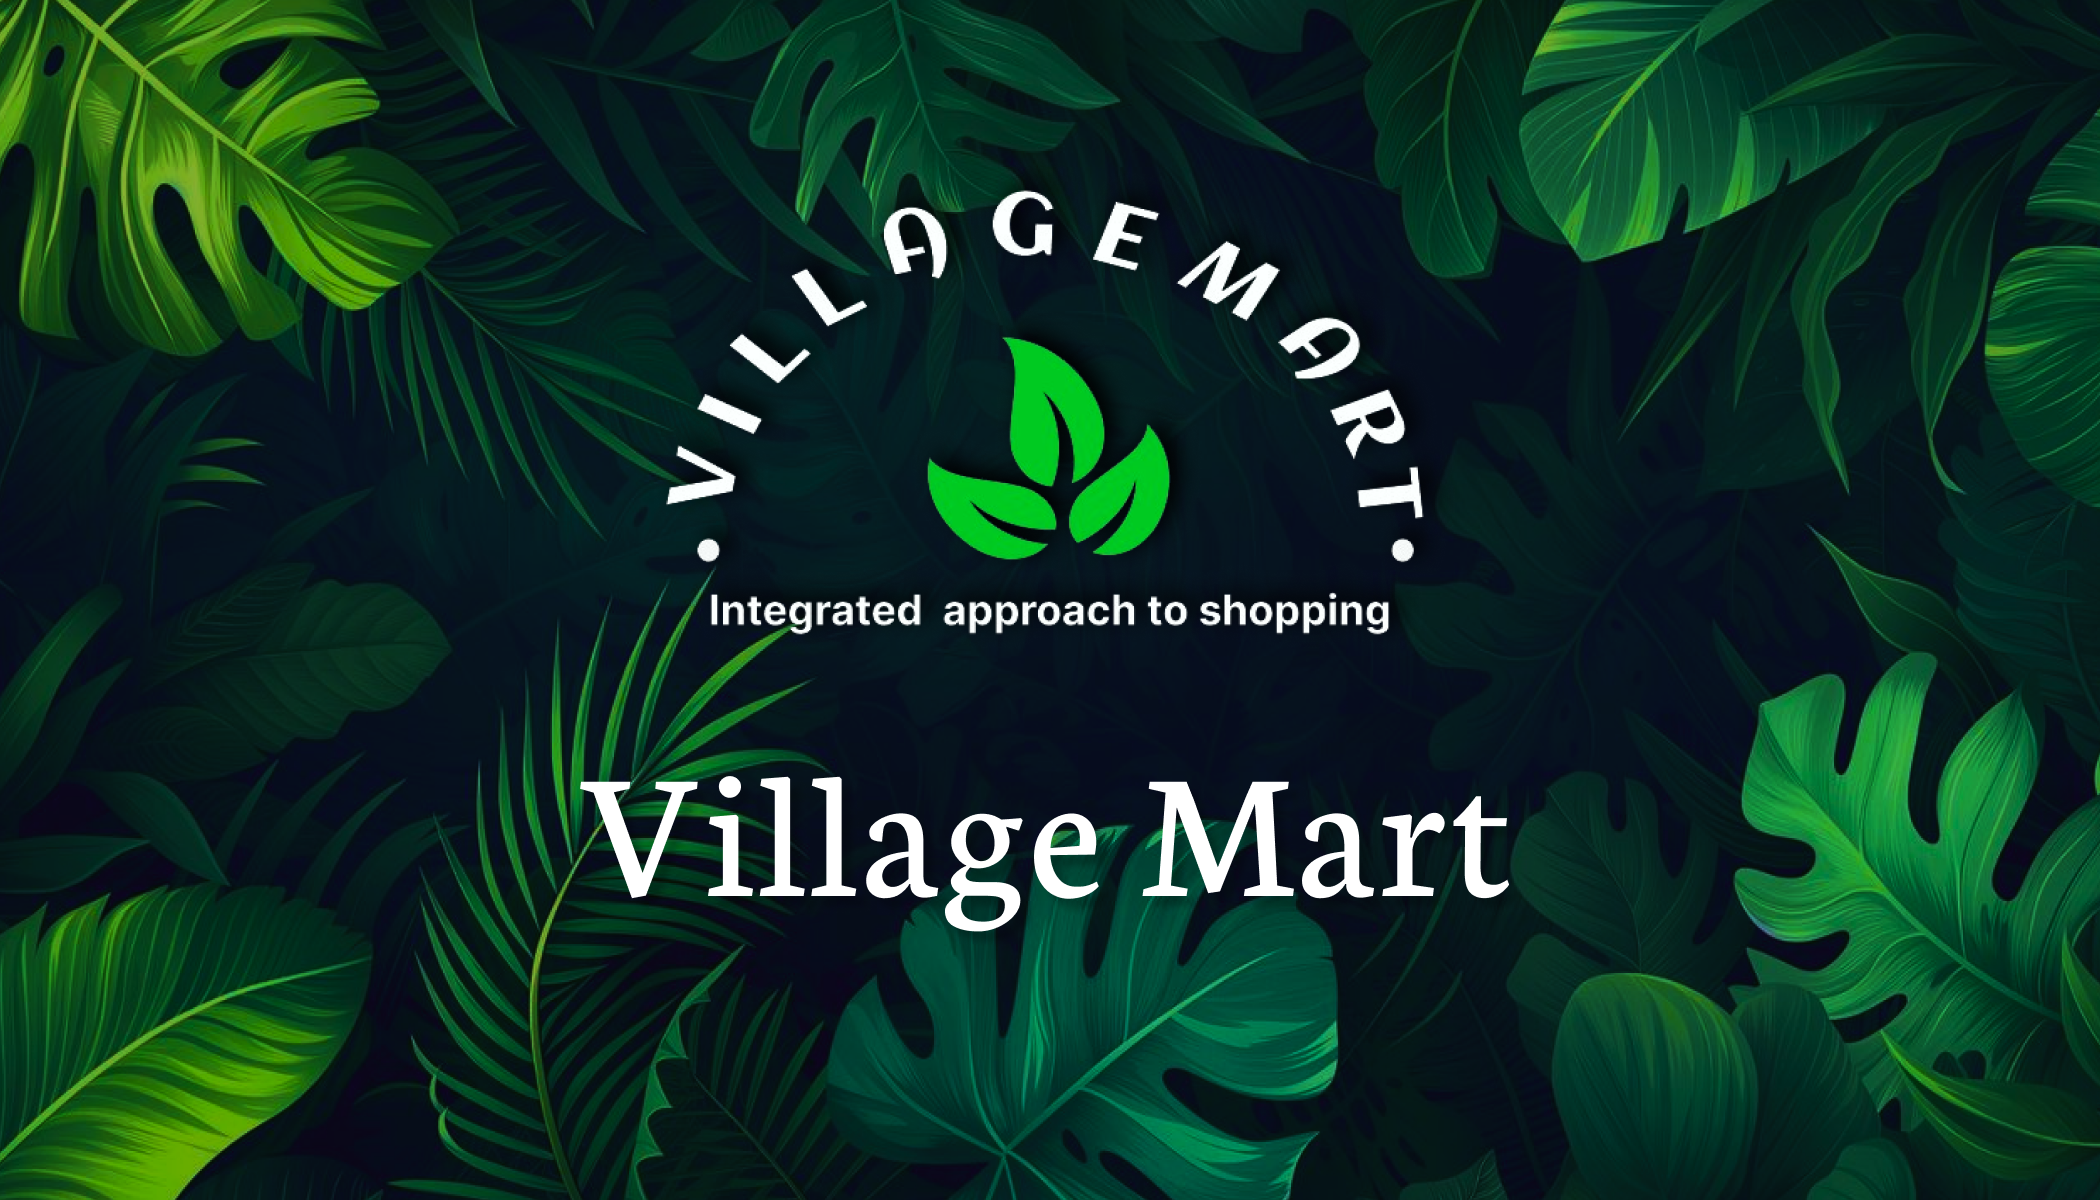
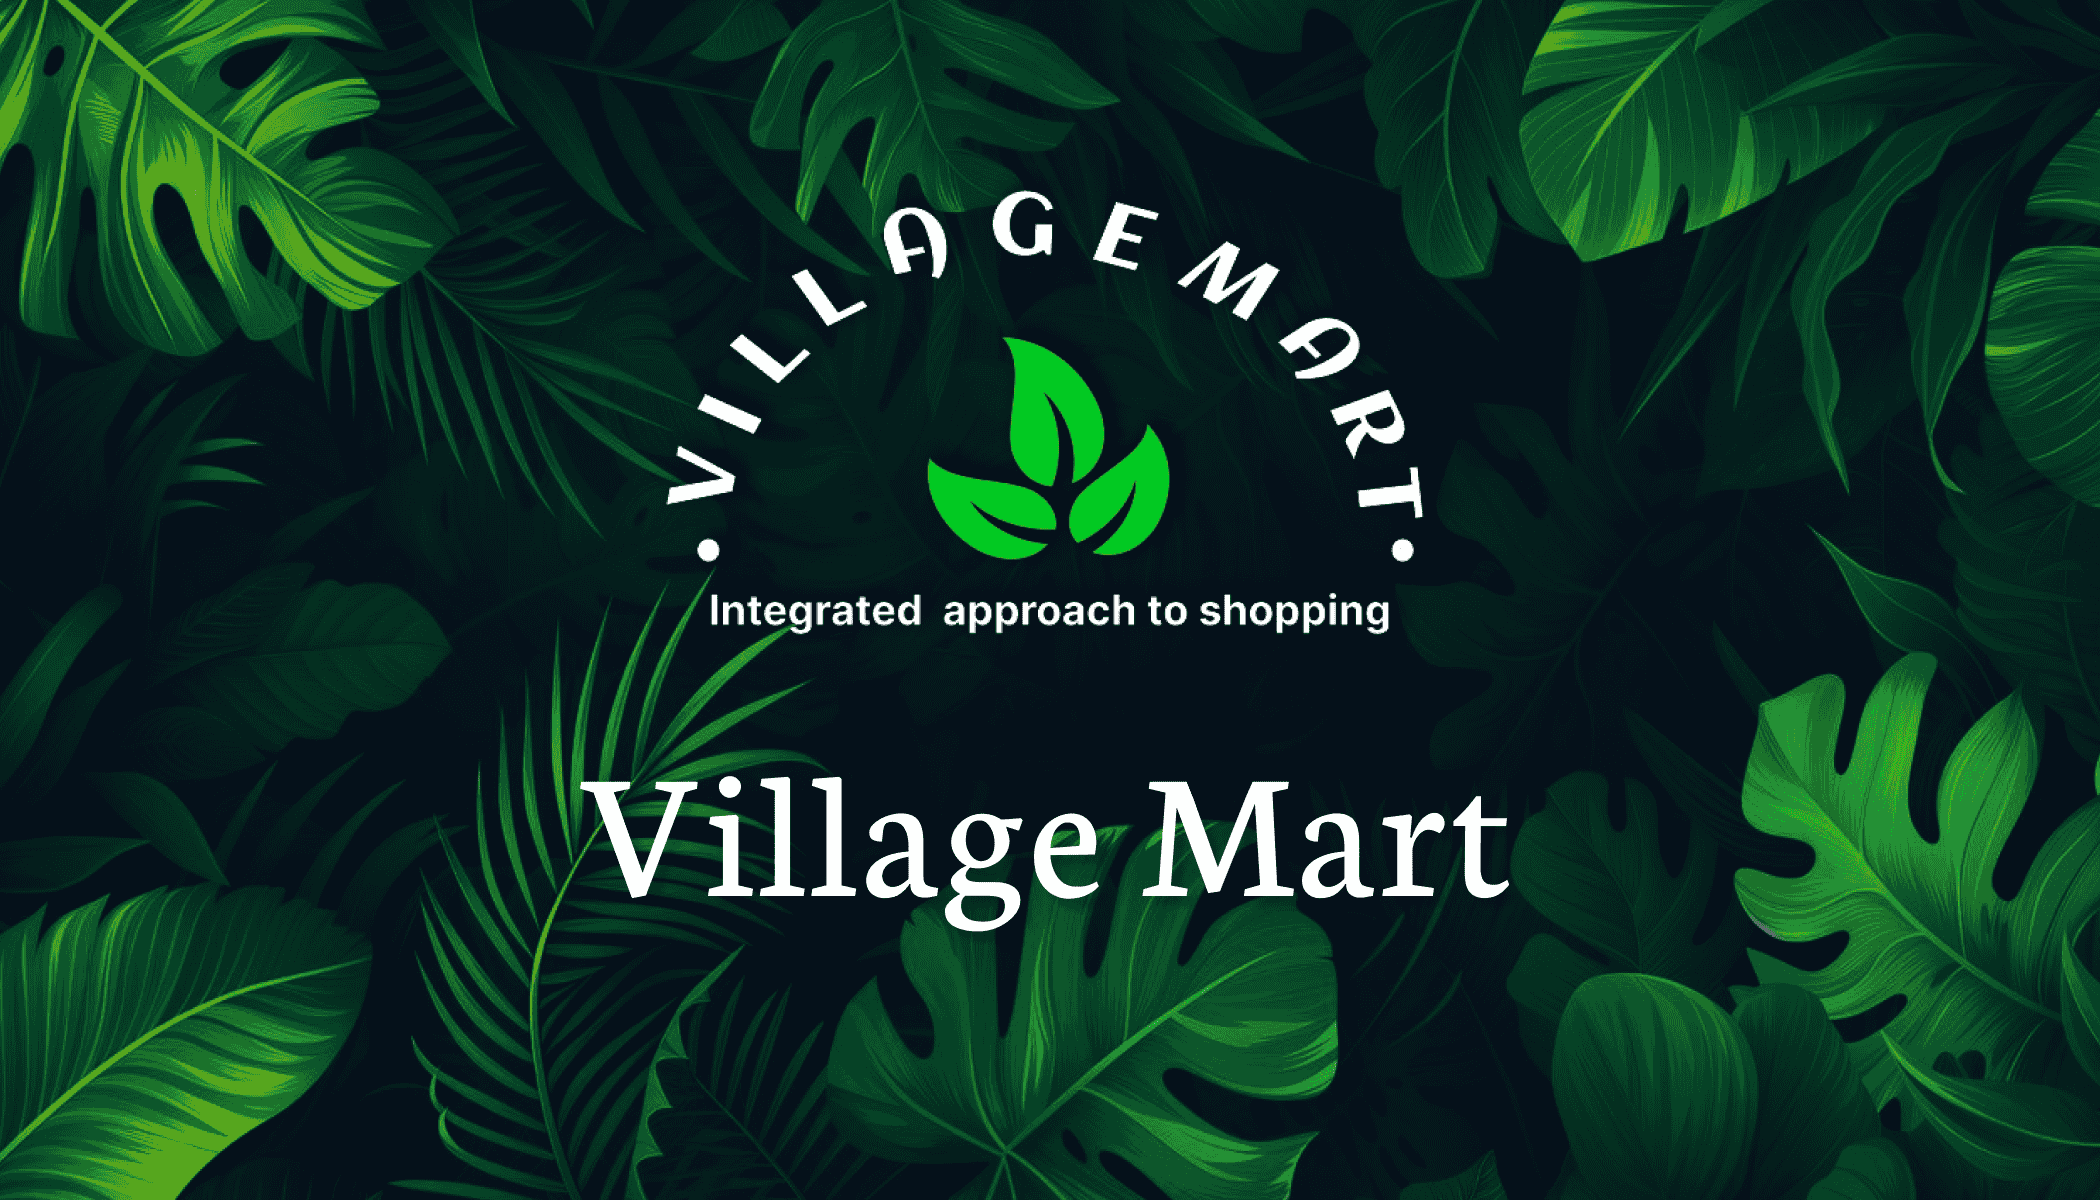
updated optimized images

diff --git a/projects.html b/projects.html
@@ -99,7 +99,7 @@
 
     <!-- Book Share -->
     <div class="project-card hover-effect" data-aos="fade-up" data-category="frontend">
-      <img src="assets/images/bookshare1.jpg" alt="Book Share" class="project-img" />
+      <img src="assets/images/bookshare.jpg" alt="Book Share" class="project-img" />
       <div class="project-info">
         <h3 class="project-title">Book Share (Front-end Developer)</h3>
         <p class="project-desc">
